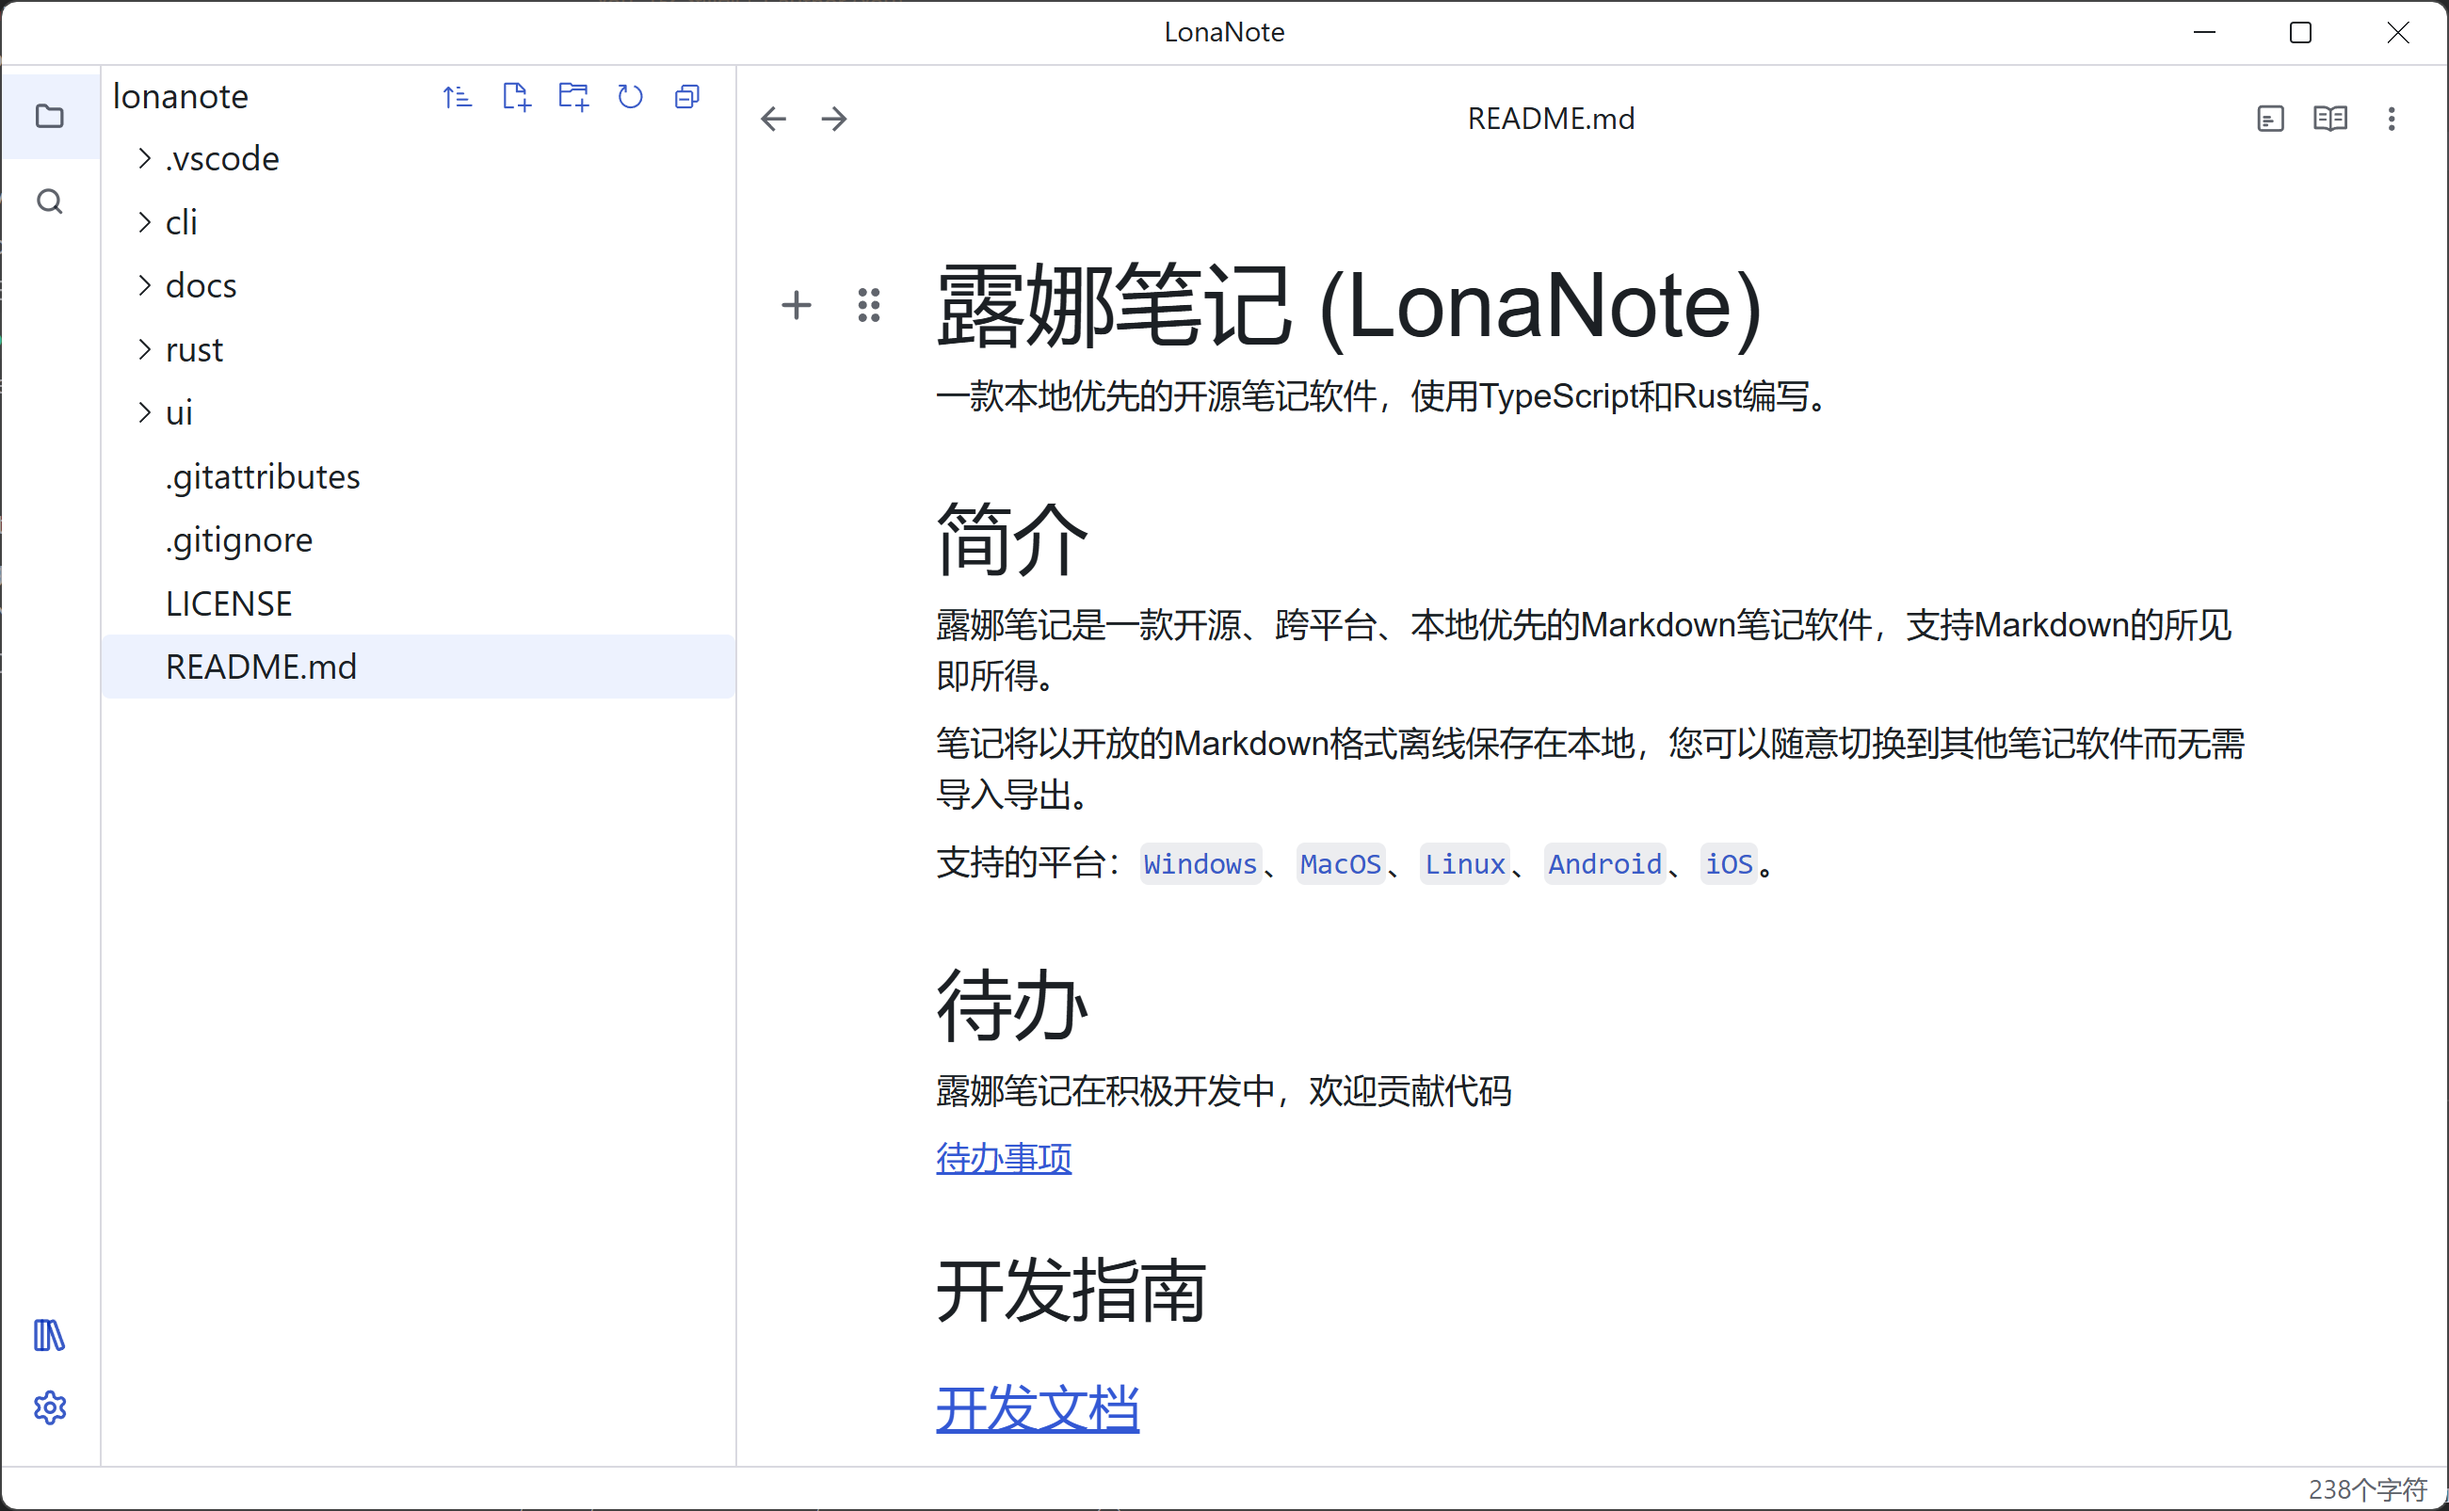
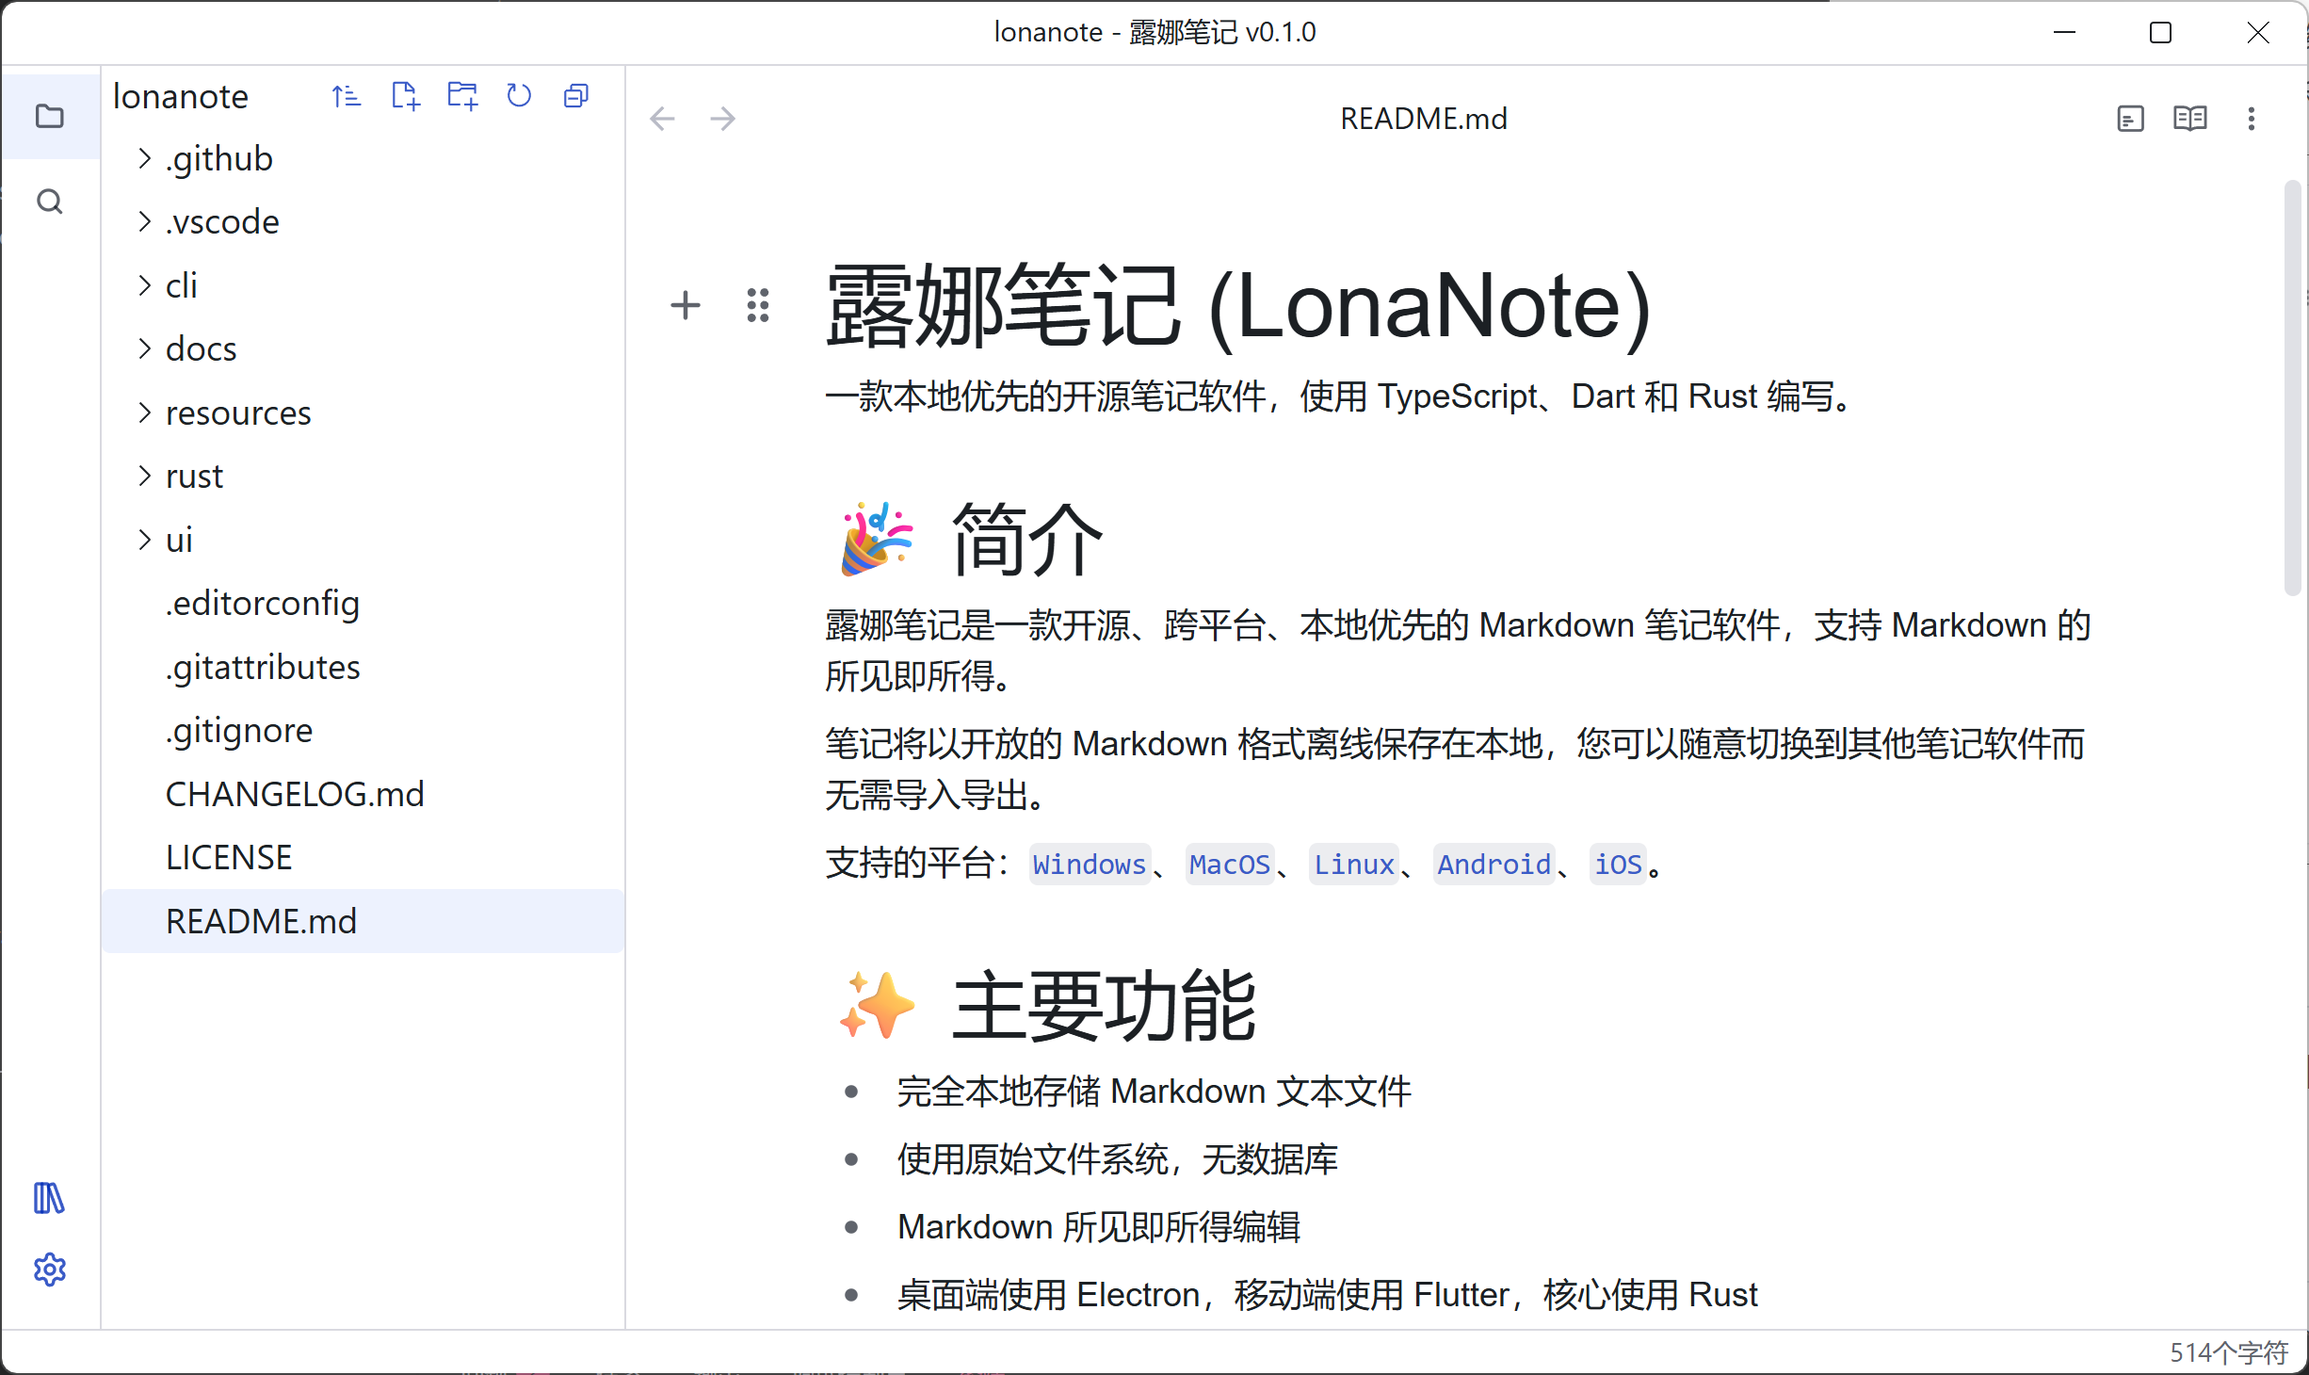
✨ mobile ui complete! close #15

diff --git a/README.md b/README.md
@@ -1,8 +1,8 @@
 # 露娜笔记 (LonaNote)
 
-一款本地优先的开源笔记软件，使用 TypeScript 和 Rust 编写。
+一款本地优先的开源笔记软件，使用 TypeScript、Dart 和 Rust 编写。
 
-## 简介
+## 🎉 简介
 
 露娜笔记是一款开源、跨平台、本地优先的 Markdown 笔记软件，支持 Markdown 的所见即所得。
 
@@ -10,20 +10,67 @@
 
 支持的平台：`Windows`、`MacOS`、`Linux`、`Android`、`iOS`。
 
-![screenshot-1](./docs/screenshots/screenshot-1.png)
 
-## 待办
+## ✨ 主要功能
+
+- 完全本地存储 Markdown 文本文件
+- 使用原始文件系统，无数据库
+- Markdown 所见即所得编辑
+- 桌面端使用 Electron，移动端使用 Flutter，核心使用 Rust
+
+<div style="display: grid; grid-template-columns: repeat(auto-fit, minmax(200px, 1fr)); justify-content: center; gap: 10px;">
+  <img src="./docs/screenshots/screenshot-1.png" width="100%" />
+  <img src="./docs/screenshots/screenshot-dark-1.png" width="100%" />
+</div>
+
+<br />
+
+<div style="display: grid; grid-template-columns: repeat(auto-fit, minmax(200px, 1fr)); justify-content: center; gap: 10px;">
+  <img src="./docs/screenshots/screenshot-2.png" width="100%" />
+  <img src="./docs/screenshots/screenshot-dark-2.png" width="100%" />
+</div>
+
+<br />
+
+<div style="display: grid; grid-template-columns: repeat(auto-fit, minmax(200px, 1fr)); justify-content: center; gap: 10px;">
+  <img src="./docs/screenshots/mobile-01.png" width="100%" />
+  <img src="./docs/screenshots/mobile-02.png" width="100%" />
+  <img src="./docs/screenshots/mobile-03.png" width="100%" />
+</div>
+
+<br />
+
+<div style="display: grid; grid-template-columns: repeat(auto-fit, minmax(200px, 1fr)); justify-content: center; gap: 10px;">
+  <img src="./docs/screenshots/mobile-dark-01.png" width="100%" />
+  <img src="./docs/screenshots/mobile-dark-02.png" width="100%" />
+  <img src="./docs/screenshots/mobile-dark-03.png" width="100%" />
+</div>
+
+
+
+## 🚀 安装
+
+- Windows | Mac | Linux | Android [从Release下载](https://github.com/luoluoqixi/lonanote/releases)
+- iOS  *待上线...*
+
+
+## 🗺 待办
 
 露娜笔记在积极开发中，欢迎贡献代码
 
 [待办事项](./docs/dev/todo.md)
 
-## 交流群
+## 💬 社区
 
 [Github Discussions](https://github.com/luoluoqixi/lonanote/discussions)
 
 QQ 群：978017481
 
-## 开发指南
+## 🔨 开发指南
 
-##### [开发文档](./ui/README.md)
+请查看 [开发文档](./ui/README.md)
+
+## 📝 许可证
+
+[MIT license](https://github.com/luoluoqixi/lonanote/blob/main/LICENSE)
+

diff --git a/ui/README.md b/ui/README.md
@@ -1,6 +1,6 @@
 ### 开发说明
 
-#### 开发环境
+#### 🔨 开发环境
 
 - Windows / Mac / Linux
   - [Rust](https://rustup.rs/) >= 1.85.0-nightly
@@ -11,22 +11,38 @@
   - Android 和 IOS 环境配置参考 Flutter 文档
   - VSCode 中保存 dart 时长时间无法保存
     - [#60335](https://github.com/dart-lang/sdk/issues/60335)
+- [flutter 相关文档](./flutter/README.md)
 
-#### 安装
+
+#### 🚀 安装 pnpm
 
 ```shell
 pnpm -C ui install
 ```
 
-- [flutter 安装](./flutter/README.md)
-
-#### 运行 Windows / Mac / Linux
+#### 🧑💻 运行 Windows / Mac / Linux
 
 ```shell
 pnpm -C ui dev
 ```
 
-#### 打包
+#### 🧑💻 运行 Android / IOS
+
+```shell
+# 提前使用 USB 连接真机或启动 Android 模拟器
+pnpm -C ui dev:mobile
+```
+
+> 首次运行应用程序时会被阻止
+>
+> 转到手机 Settings > Privacy & Security > Developer Mode 以启用开发者模式
+>
+> 然后转到 Settings -> General -> VPN and device management -> From "Developer App"
+>
+> 按 "Apple Development: APPLE_ID"->"信任"
+
+
+#### 🏗 打包
 
 ```shell
 # windows
@@ -48,21 +64,6 @@ pnpm -C ui build:android
 pnpm -C ui build:ios
 ```
 
-#### 运行 Android / IOS
-
-```shell
-# 提前使用 USB 连接真机或启动 Android 模拟器
-pnpm -C ui dev:mobile
-```
-
-> 首次运行应用程序时会被阻止
->
-> 转到手机 Settings > Privacy & Security > Developer Mode 以启用开发者模式
->
-> 然后转到 Settings -> General -> VPN and device management -> From "Developer App"
->
-> 按 "Apple Development: APPLE_ID"->"信任"
-
-#### 提交
+#### 🎨 提交
 
 [commit_emoji](../docs/dev/commit_emoji.md)
